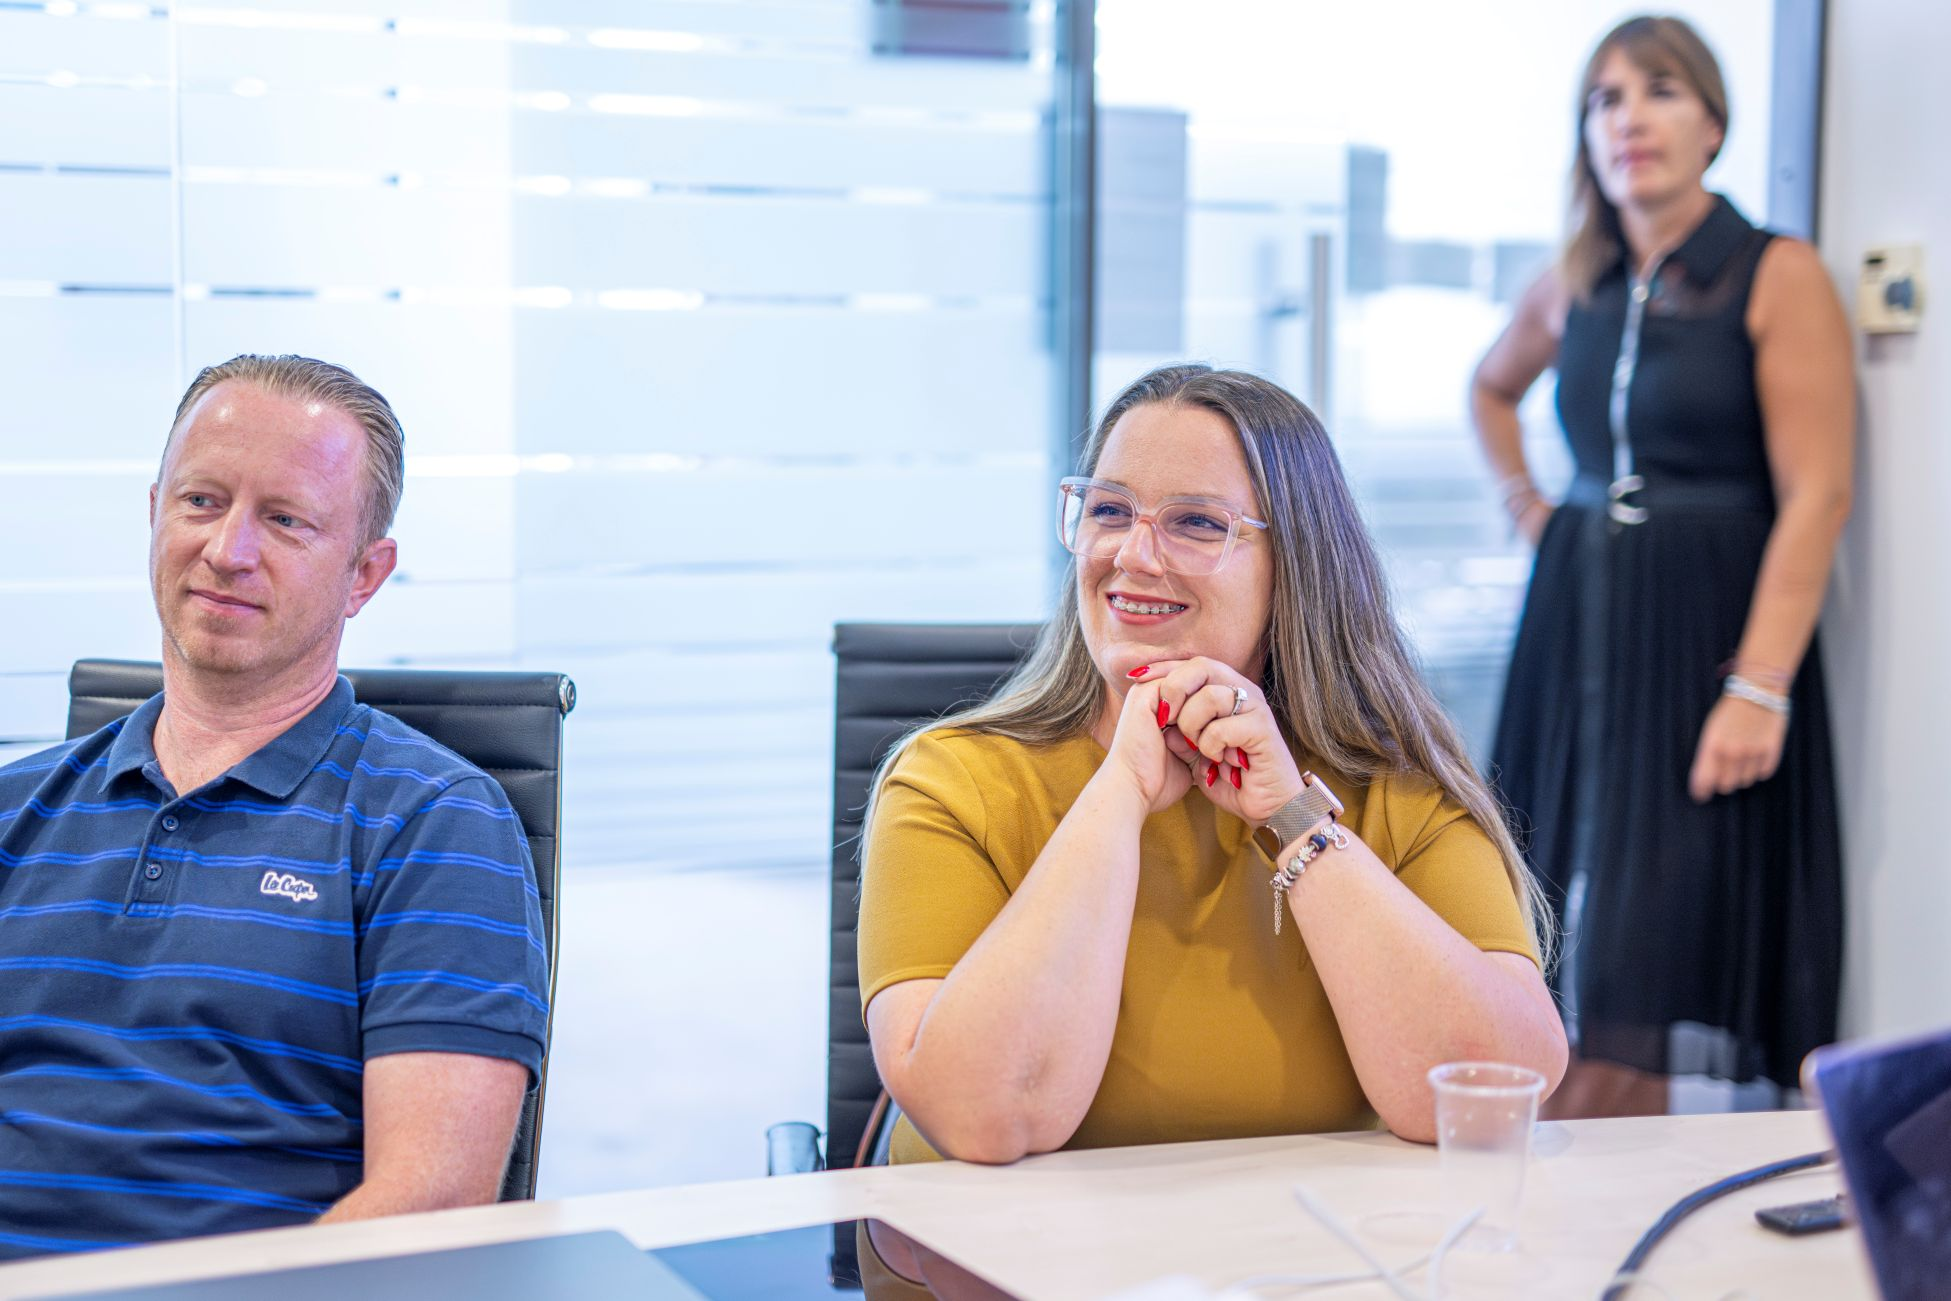
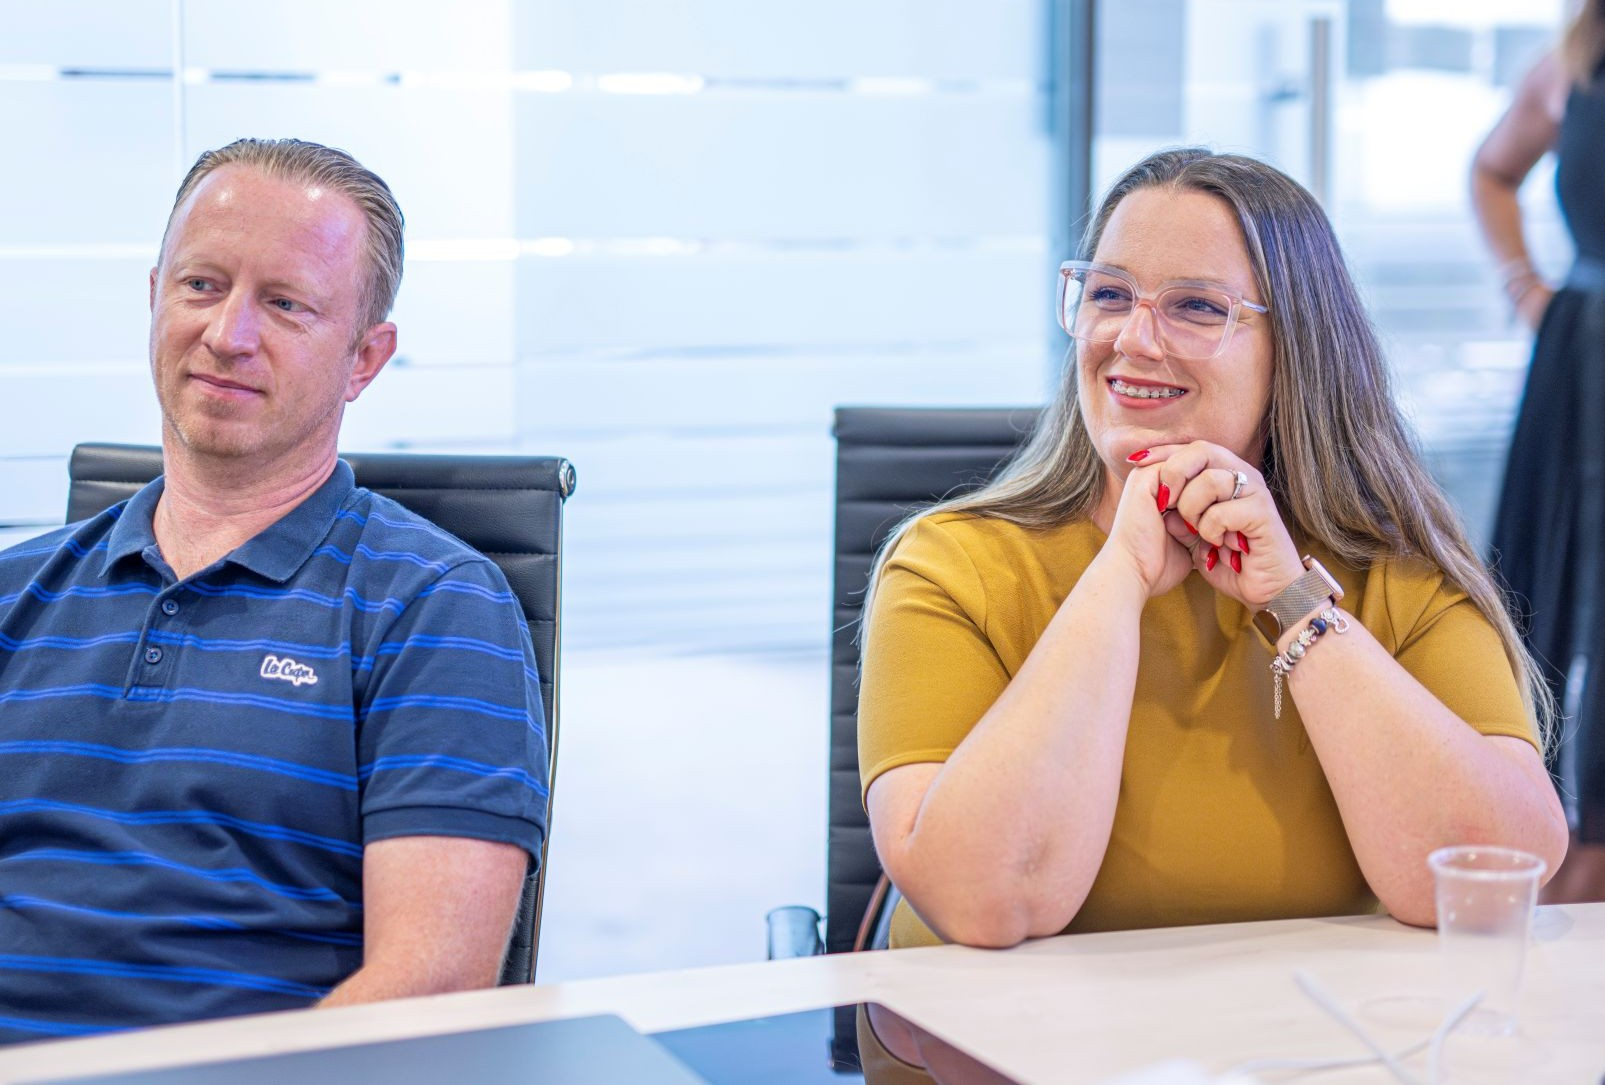
Martina solution sa slikom koja ne laska

diff --git a/final/martina.html b/final/martina.html
@@ -127,7 +127,7 @@
         }
 
         #graphic3a {
-            background-position: 65% center; /* Adjust 75% to fine-tune */
+            background-position: 80% center; /* Adjust 75% to fine-tune */
         }
 
          #graphic4{
@@ -147,7 +147,7 @@
         }
 
         #graphic8 {
-            background-position: 34% center; /* Adjust 75% to fine-tune */
+            background-position: 50% center; /* Adjust 75% to fine-tune */
         }
 
 footer {
@@ -381,7 +381,7 @@ footer {
         <!-- The Graphics Layer (Backgrounds) -->
         <div class="scrolly-graphics">
             <!-- These are the background images that will be revealed -->
-            <div class="scrolly-graphic" id="graphic3" style="background-image: url('images/Martina01.JPG');"></div>
+            <div class="scrolly-graphic" id="graphic3" style="background-image: url('images/Martina01b.JPG');"></div>
           </div>
         <!-- The Steps Layer (Text) -->
         <div class="scrolly-steps">
